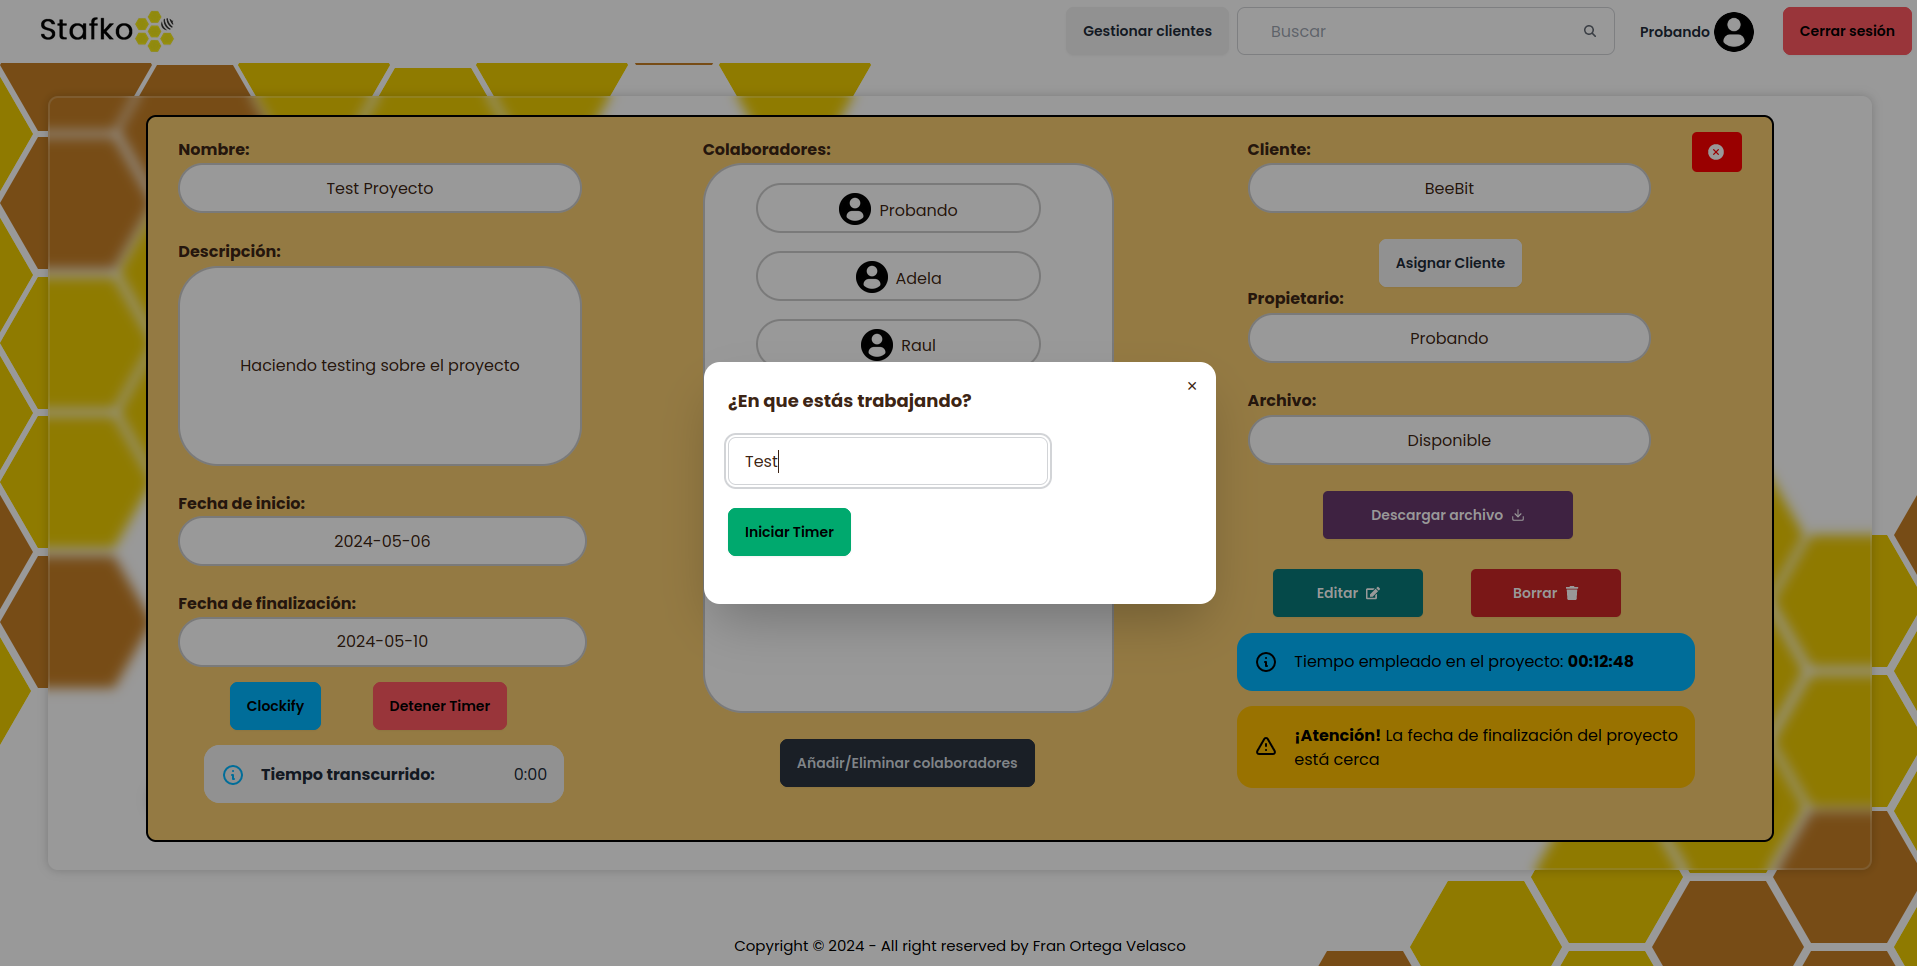
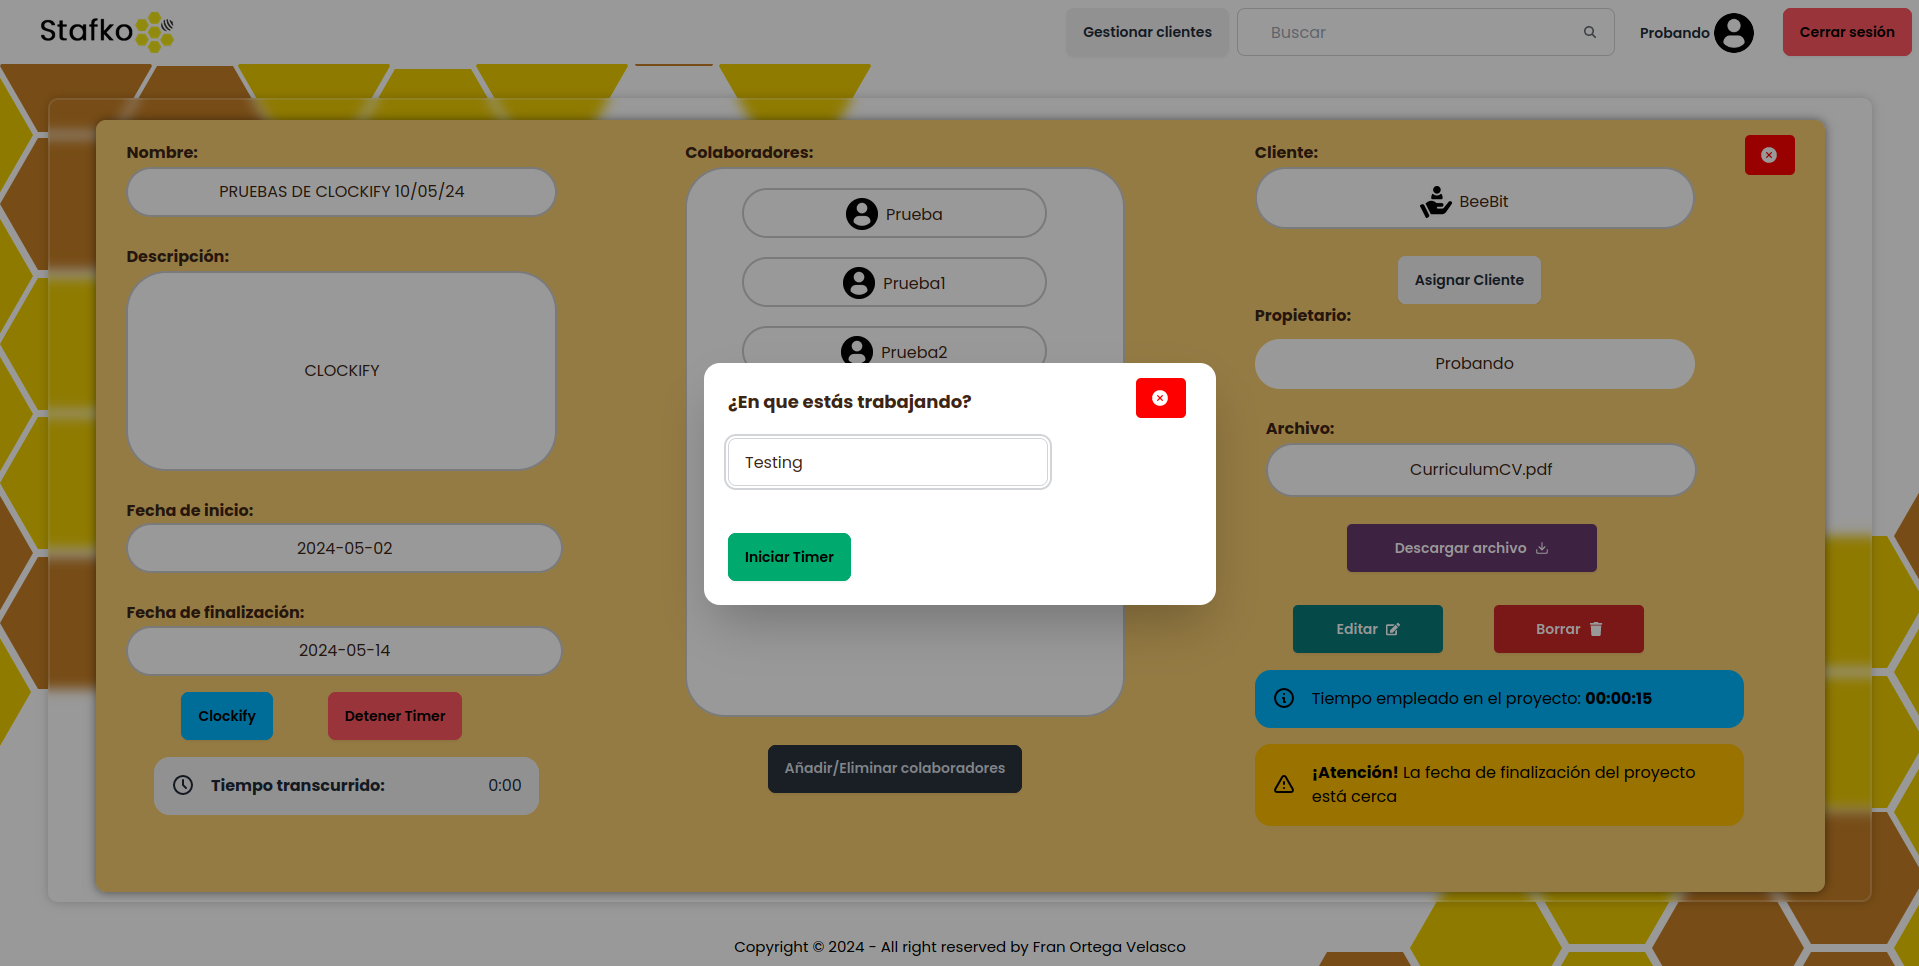
Update 10/05

diff --git a/api/src/repositorios/application/repo.service.ts b/api/src/repositorios/application/repo.service.ts
@@ -99,6 +99,7 @@ export class RepoService {
       colaboradores,
       cliente,
       archivo,
+      nombreArchivo,
     } = updateRepoDto;
     const buscar: FindOneOptions<Repo> = { where: { id } };
     const repo: Repo | undefined = await this.repoRepository.findOne(buscar);
@@ -112,6 +113,7 @@ export class RepoService {
     repo.fechaFinalizacion = fechaFinalizacion || repo.fechaFinalizacion;
     repo.colaboradores = colaboradores || repo.colaboradores;
     repo.cliente = cliente || repo.cliente;
+    repo.nombreArchivo = nombreArchivo || repo.nombreArchivo;
 
     if (archivo) {
       repo.archivo = archivo.buffer;
@@ -178,7 +180,7 @@ export class RepoService {
 
     const buscar: FindOneOptions<Repo> = { where: { id } };
     const repo: Repo | undefined = await this.repoRepository.findOne(buscar);
-    
+
       if (!repo) {
         throw new NotFoundException(`Repo with id ${id} not found`);
     }

diff --git a/api/src/repositorios/infrastructure/dto/update-repo.dto.ts b/api/src/repositorios/infrastructure/dto/update-repo.dto.ts
@@ -25,6 +25,10 @@ export class UpdateRepoDto {
   @IsOptional()
   time: number
 
+  @IsString()
+  @IsOptional()
+  nombreArchivo?: string;
+
   @IsOptional()
   archivo?: Express.Multer.File;
 }

diff --git a/api/src/repositorios/infrastructure/dto/create-repo.dto.ts b/api/src/repositorios/infrastructure/dto/create-repo.dto.ts
@@ -36,6 +36,7 @@ export class CreateRepoDto {
   @IsOptional()
   archivo?: Express.Multer.File;
 
+  @IsString()
   @IsOptional()
   nombreArchivo?: string;
 

diff --git a/README.md b/README.md
@@ -8,6 +8,17 @@ NestJs Application Stafko - Beebit | Fran
 
 La aplicación del Backend se ejecutará en: [http://localhost:3000](http://localhost:3000)
 
+## About
+
+Bienvenido a mi aplicación de gestión de proyectos, creada durante el periodo de prácticas en BeeBit en 2024. Esta aplicación te permite administrar proyectos de manera eficiente, colaborar con tu equipo, y gestionar el tiempo con la integración de Clockify.
+
+Funcionalidades destacadas:
+
+- Registro de usuarios y autenticación segura.
+- Subida y gestión de proyectos.
+- Integración con la API de Clockify para registrar tiempo.
+- Posibilidad de añadir colaboradores y clientes a proyectos.
+
 ## Init
 ### Ejecutar el contenedor:
 ```bash
